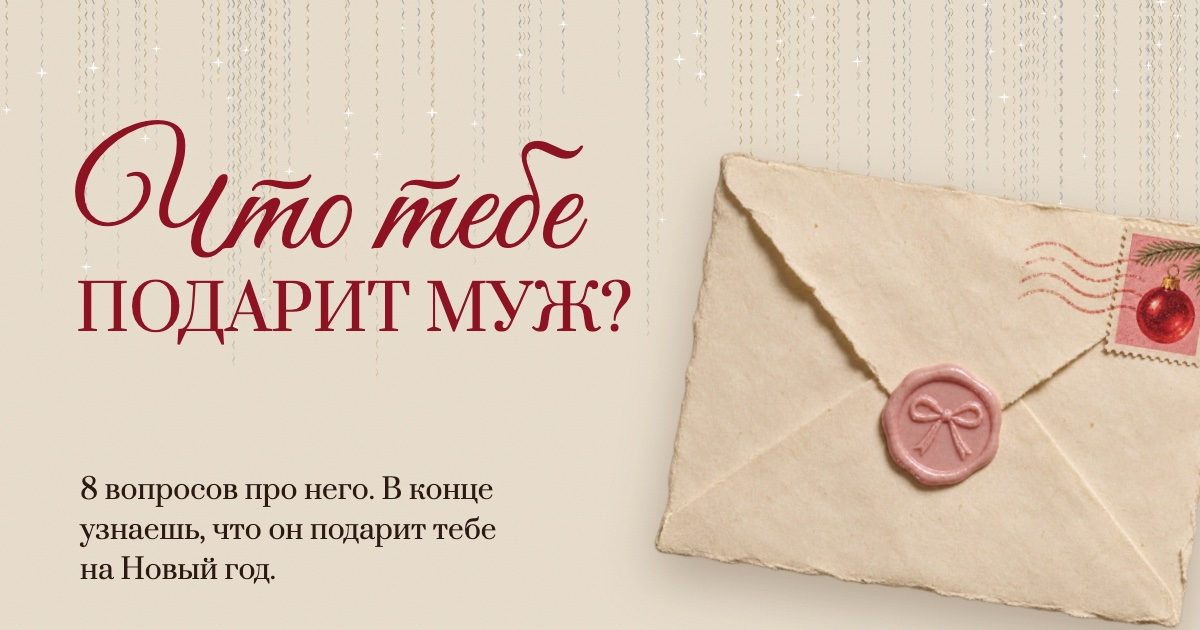
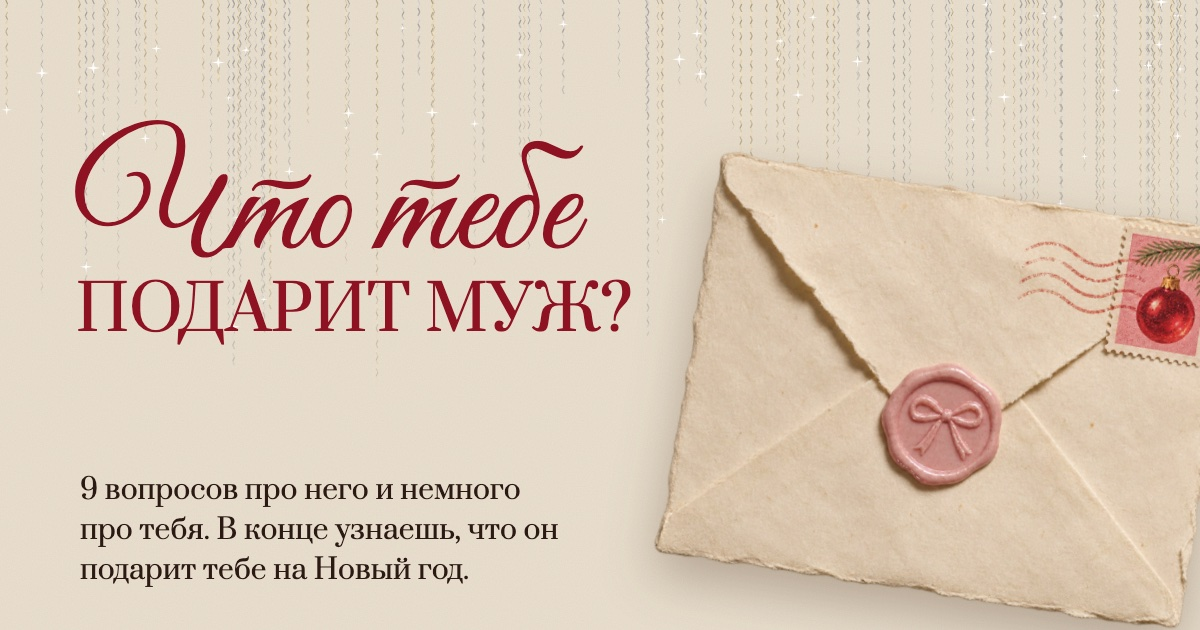
Вопросы и итоги Никиты: 9 вопросов, 11 итогов, «Выбирал» и «Скажет», тексты, которыми хочется поделиться

Changed region(s): [[0.0617, 0.754, 0.4625, 0.9349], [0.0617, 0.754, 0.0925, 0.7841]]

diff --git a/index.html b/index.html
@@ -4,13 +4,13 @@
 <meta charset="utf-8">
 <meta name="viewport" content="width=device-width, initial-scale=1, viewport-fit=cover">
 <title>Что тебе подарит муж?</title>
-<meta name="description" content="8 вопросов про него. В конце узнаешь, что он подарит тебе на Новый год.">
+<meta name="description" content="9 вопросов про него и немного про тебя. В конце узнаешь, что он подарит тебе на Новый год.">
 <meta name="theme-color" content="#EAE0CF">
 <meta name="color-scheme" content="only light">
 <link rel="apple-touch-icon" href="apple-touch-icon.png">
 <meta property="og:type" content="website">
 <meta property="og:title" content="Что тебе подарит муж?">
-<meta property="og:description" content="8 вопросов про него. В конце узнаешь, что он подарит тебе на Новый год.">
+<meta property="og:description" content="9 вопросов про него и немного про тебя. В конце узнаешь, что он подарит тебе на Новый год.">
 <meta property="og:url" content="https://ellitinskaya.github.io/podarok/">
 <meta property="og:image" content="https://ellitinskaya.github.io/podarok/og.jpg">
 <meta property="og:image:width" content="1200">
@@ -119,7 +119,7 @@
   .back { background: none; border: 0; padding: 0 12px 0 0; min-height: 44px; margin: -9px 0; color: var(--accent); }
   .step { margin-left: auto; color: var(--accent); }
   .bar { position: relative; z-index: 2; height: 1px; margin-top: 8px; background: var(--rule); }
-  .bar i { display: block; height: 100%; width: 12.5%; background: var(--accent); }
+  .bar i { display: block; height: 100%; width: 11.1%; background: var(--accent); }
   @media (prefers-reduced-motion: no-preference) { .bar i { transition: width .25s ease; } }
   #quiz .env { width: 72%; right: -16%; top: 52px; transform: rotate(9deg); }
   #quiz .photo { width: 40%; left: -3%; bottom: 7%; transform: rotate(-7deg); }
@@ -154,6 +154,7 @@
 
   /* ---------- итог ---------- */
   .result { position: relative; max-width: 560px; margin: 0 auto; padding: 22px var(--pad) 28px; }
+  @media (max-width: 899px) { .result { overflow-x: clip; } }   /* конверт за листом не вылезает за край телефона: страница не ездит вбок (2026-11-19). clip, а не hidden, — чтобы кнопка «Отправить» осталась прилипшей */
   .res-title { position: relative; z-index: 2; }   /* заголовок поверх выглядывающего конверта */
   .res-title:focus { outline: none; }
   .res-collage { position: relative; display: flow-root; margin-top: 18px; }   /* flow-root: отступ листа не утаскивает весь блок вниз */
@@ -165,6 +166,9 @@
   .wish { font-size: var(--t-wish); line-height: 1.25; margin-bottom: 16px; padding-bottom: 16px; border-bottom: 1.5px dotted rgba(78, 42, 30, .45); }
   .gift { font-size: var(--t-gift); line-height: var(--lh-gift); margin-bottom: 12px; }
   .line { max-width: 30em; }
+  /* «Выбирал» и «Скажет» под строкой итога (версия 6, 2026-11-19) */
+  .extra { display: grid; grid-template-columns: auto 1fr; gap: 6px 14px; align-items: baseline; margin: 14px 0 0; padding-top: 12px; border-top: 1.5px dotted rgba(78, 42, 30, .45); font-size: 14px; line-height: 19px; }
+  .extra dt { margin: 0; } .extra dd { margin: 0; }
   .send-wrap { position: sticky; bottom: 0; z-index: 3; margin: 22px calc(-1 * var(--pad)) 0; padding: 10px var(--pad) calc(10px + env(safe-area-inset-bottom, 0px));
     background: linear-gradient(180deg, var(--bg-0), var(--bg) 14px); }
   .send { display: block; width: 100%; min-height: 56px; border: 0; background: var(--btn); color: var(--on-accent); }
@@ -183,7 +187,7 @@
   .st-env { position: relative; width: min(330px, 82vw); }
   .st-env img { position: relative; z-index: 1; display: block; width: 100%; height: auto; filter: drop-shadow(0 20px 26px rgba(60, 30, 10, .35)); }
   .st-letter { position: absolute; z-index: 0; left: 9%; top: 8%; width: 82%; height: 80%; overflow: hidden; background: var(--note) var(--noise); padding: 14px 14px; color: var(--ink); font-size: 9px; line-height: 12px; }
-  .st-letter .lbl { font-size: 7px; } .st-letter .wish { font-size: 12px; margin-bottom: 7px; padding-bottom: 7px; } .st-letter .gift { font-size: 14px; line-height: 17px; margin: 0; } .st-letter .line { display: none; }
+  .st-letter .lbl { font-size: 7px; } .st-letter .wish { font-size: 12px; margin-bottom: 7px; padding-bottom: 7px; } .st-letter .gift { font-size: 14px; line-height: 17px; margin: 0; } .st-letter .line, .st-letter .extra { display: none; }
   .st-glow { position: absolute; z-index: 2; left: 50%; top: 57%; width: 160px; height: 160px; margin: -80px 0 0 -80px; border-radius: 50%; pointer-events: none; opacity: 0;
     background: radial-gradient(circle, rgba(255, 255, 255, .95) 0, rgba(255, 246, 232, .55) 30%, rgba(255, 240, 220, 0) 70%); }
 
@@ -238,7 +242,7 @@
     <div class="bar" aria-hidden="true"><i id="bar"></i></div>
     <div id="intro">
       <p aria-hidden="true"><span class="s1">Что тебе</span><span class="s2">подарит муж?</span></p>
-      <p class="lead">8&nbsp;вопросов про него. В&nbsp;конце узнаешь, что он подарит тебе на&nbsp;Новый год.</p>
+      <p class="lead">9&nbsp;вопросов про него и&nbsp;немного про&nbsp;тебя. В&nbsp;конце узнаешь, что он подарит тебе на&nbsp;Новый год.</p>
     </div>
     <div class="ask">
       <div class="note"><span class="tape" aria-hidden="true"></span>
@@ -296,61 +300,83 @@
 
 <script>
 const WHO = [['муж','мужу','Муж'],['парень','парню','Парень']];
-/* ---------- Тексты (docs/copy.md, раздел 9, версия 5 от 2026-11-17) ---------- */
+/* ---------- Тексты (docs/copy.md, разделы 15–16, версия 7 от 2026-11-19) ---------- */
 const QUESTIONS = [
   { id:'who',   q:'Кто он тебе?', a:['Муж','Парень'] },
-  { id:'time',  q:'Когда он обычно покупает подарки?', s:[3,2,1,0], a:['За пару недель','За пару дней','31 декабря','Забывает'] },
-  { id:'last',  q:'Что он подарил в прошлый Новый год?', s:[2,1,0,-1], a:['То, что я хотела','Что-то для дома','Деньги','Не помню'] },
-  { id:'hints', q:'Как он понимает намёки?', s:[3,2,1,0], a:['С первого раза','Со второго-третьего','Только если прислать ссылку','Никак'] },
-  { id:'ring',  q:'Он знает твой размер кольца?', s:[2,1,0], a:['Да','Примерно','Нет'] },
-  { id:'kin',   q:'Кто покупает подарки его родным?', s:[2,1,0], a:['Он сам','Вместе','Я'] },
-  { id:'says',  q:'Что он говорит про подарки в декабре?', s:[1,0,-1,-1], a:['Спрашивает, что я хочу','Говорит, что всё под контролем','Предлагает в этом году без подарков','Ничего не говорит'] },
-  { id:'wish',  q:'Что ты хочешь в подарок?', a:['Украшение','Поездку','Духи или косметику','Сюрприз'] },
+  { id:'time',  q:'Где он будет 31 декабря в девять вечера?', s:[3,2,1,0], a:['Дома, подарок давно спрятан','Ждёт курьера, заказал позавчера','Бегает по торговому центру','Заезжает на заправку за цветами'] },
+  { id:'her',   q:'Что ты отвечаешь на «что тебе подарить?»', s:[2,1,0,-1], a:['Говорю прямо и присылаю ссылку','Намекаю с октября','«Сам придумай»','«Ничего не надо»'] },
+  { id:'last',  q:'Где сейчас его прошлогодний подарок?', s:[2,0,-1,-1], a:['Ношу и люблю','Лежит в шкафу с биркой','Передарила маме','А был подарок?'] },
+  { id:'reel',  q:'Ты отправила ему рилс с намёком. Что он сделал?', s:[3,2,1,0], a:['Молча купил','Спросил: «Это намёк?»','Поставил лайк и забыл','Не открыл, там уже сорок непрочитанных'] },
+  { id:'ring',  q:'Спроси его, какой у тебя размер кольца. Что он ответит?', s:[2,1,0], a:['Назовёт без запинки','Скажет: «Ну… средний?»','Удивится, что у колец есть размеры'] },
+  { id:'mom',   q:'Кто покупает подарок его маме?', s:[2,1,0,0], a:['Он сам, ещё и упакует','Выбираем вместе','Я выбираю, он переводит деньги','Я покупаю, а дарит он'] },
+  { id:'says',  q:'Что он скажет ближе к Новому году?', s:[1,0,-1,-1], a:['«Что ты хочешь? Только конкретно»','«Всё под контролем»','«Может, в этом году без подарков?»','«А что, уже декабрь?»'] },
+  { id:'wish',  q:'Что ты хочешь в подарок?', a:['Украшение','Поездку','Духи или косметику','Сюрприз','Чтобы сам догадался'] },
 ];
-const WISH = ['украшение', 'поездку', 'духи или косметику', 'сюрприз'];
+const WISH = ['украшение', 'поездку', 'духи или косметику', 'сюрприз', 'чтобы сам догадался'];
+/* итог: подарок крупно, под ним строка, «Выбирал» и «Скажет» */
 const GIFT = {
-  none:   'Ничего. Вы же договорились без подарков.',
-  gas:    'Цветы и шоколадку с заправки.',
-  self:   'То, что ты купишь себе сама.',
-  cert:   'Сертификат, купленный 31 декабря в 21:40.',
-  money:  'Деньги на карту.',
-  useful: 'Что-то для дома. Скорее всего, сковородку.',
-  list:   'То, что ты пришлёшь ему ссылкой.',
-  ok:     'Хороший подарок. Только не тот, что ты хочешь.',
+  agreed:     'Ничего. Вы же договорились без подарков.',
+  said:       'Ничего. Ты же сама сказала.',
+  gas:        'Цветы и шоколадку с заправки.',
+  cert:       'Сертификат, купленный 31 декабря в 21:40.',
+  self:       'То, что ты купишь себе сама.',
+  money:      'Деньги на карту с комментарием «С НГ».',
+  list:       'То, что ты пришлёшь ему ссылкой.',
+  useful:     'Что-то для дома. Скорее всего, сковородку.',
+  mom:        'Подарок твоей маме. Напрямую.',
+  consultant: 'То, что понравилось консультанту.',
 };
-const GOOD = ['Украшение, которое ты хотела.', 'Поездку, о которой ты говорила.', 'Твои любимые духи.', 'Сюрприз, и он тебе понравится.'];
+const GOOD = ['Украшение, которое ты хотела.', 'Поездку, о которой ты говорила.', 'Твои любимые духи.', 'Сюрприз, и он тебе понравится.', 'Он догадался. Сама в шоке.'];
 const NOTE = {
-  none:   'Он правда думает, что ты согласилась.',
-  good:   'Такое выпадает редко. Береги его.',
-  gas:    'Про Новый год он вспомнит 31 декабря по дороге домой.',
-  self:   'Подарки его родным тоже покупаешь ты.',
-  cert:   'Магазин выберет тот, что ближе к дому.',
-  money:  'Как и в прошлый раз.',
-  useful: 'В прошлый раз было так же.',
-  list:   'Ссылку лучше прислать до 20 декабря.',
-  ok:     'Чтобы угадал, отправь ему эту картинку.',
+  agreed:     'Он правда думает, что ты согласилась.',
+  said:       'Единственное, что он запомнил с первого раза.',
+  gas:        'Про Новый год он вспомнит 31 декабря по дороге домой.',
+  cert:       'Магазин он выберет по одному признаку: ближе к парковке.',
+  self:       'Подарок его маме тоже покупаешь ты.',
+  money:      'Маме ты выбирала сама, себе тоже выберешь.',
+  list:       'Пришли до 20 декабря, иначе доставка не успеет.',
+  useful:     'Ты же сказала: «Сам придумай». Он придумал.',
+  mom:        'Прошлогодний всё равно уехал к ней.',
+  consultant: 'Чек он на всякий случай сохранит.',
+  good:       'Такое выпадает редко. Береги его.',
 };
-/* ---------- Как выбирается подарок (docs/copy.md, 9.4–9.7). Эталон — proverki/pravila-v5.js ---------- */
+/* «Выбирал» — у каждого итога своё число: его пишут в комментариях («у меня 0 минут») */
+const TOOK = { agreed:'0 минут', said:'0 минут', gas:'3 минуты, пока заправлялся', cert:'4 минуты, из них 3 — в очереди', self:'0 минут', money:'1 минуту, искал тебя в контактах',
+  list:'30 секунд: нажал «Купить»', useful:'10 минут в отделе посуды', mom:'5 минут на звонок твоей маме', consultant:'15 минут, из них 14 слушал консультанта', good:'2 недели' };
+const SAY = { agreed:'«Мы же договорились»', said:'«Я же тебя слушаю»', gas:'«Зато от души»', cert:'«Выберешь сама, что нравится»',
+  self:'«Ты же лучше знаешь, что тебе нужно»', money:'«Так практичнее»', list:'«Скинь ссылку, закажу»', useful:'«Ты же говорила, что старая пригорает»',
+  mom:'«Чтобы два раза не возить»', consultant:'«В магазине сказали, что всем нравится»', good:'«Я всё помню»' };
+/* ---------- Как выбирается подарок (docs/copy.md, раздел 15). Эталон — proverki/pravila-v6.js ---------- */
 function buildResult(ans) {
   const sc = i => QUESTIONS[i].s[ans[i]];
   const who = WHO[ans[0]];
-  const T = sc(1), H = ans[2], A = sc(3), R = sc(4), I = sc(5), says = ans[6], wish = ans[7];
-  const score = T + sc(2) + A + R + I + sc(6);           /* от −2 до 13 */
+  const time = ans[1], her = ans[2], last = ans[3], reel = ans[4], ring = ans[5], mom = ans[6], says = ans[7], wish = ans[8];
+  let score = 0; for (let i = 1; i <= 7; i++) score += sc(i);   /* от −3 до 15 */
   let key;
-  if (says === 2 && score <= 6) key = 'none';
-  else if (T === 0) key = 'gas';
+  if (says === 2 && score <= 4) key = 'agreed';                 /* «Может, в этом году без подарков?» */
+  else if (her === 3 && score <= 4) key = 'said';               /* «Ничего не надо» */
+  else if (time === 3 || (says === 3 && score <= 3)) key = 'gas'; /* заправка или «А что, уже декабрь?» */
   else if (score >= 9) key = 'good';
-  else if (I === 0 && score <= 5) key = 'self';
-  else if (T === 1) key = 'cert';
-  else if (H === 2) key = 'money';
-  else if (H === 1) key = 'useful';
-  else if (A <= 1) key = 'list';
-  else key = 'ok';
+  else if (mom === 3 && score <= 5) key = 'self';               /* «Я покупаю, а дарит он» */
+  else if (last === 2) key = 'mom';                             /* «Передарила маме» */
+  else if (time === 2) key = 'cert';                            /* «Бегает по торговому центру» */
+  else if (her === 2) key = 'useful';                           /* «Сам придумай» */
+  else if (mom === 2) key = 'money';                            /* «Я выбираю, он переводит деньги» */
+  else if (reel >= 2) key = 'list';                             /* лайк или не открыл */
+  else key = 'consultant';
   const gift = key === 'good' ? GOOD[wish] : GIFT[key];
   let note = NOTE[key];
-  if (key === 'good' && says === 2) note = 'А «без подарков» он сказал для отвода глаз.';
-  else if (key === 'ok' && wish === 0 && R === 0) note = 'Если это кольцо, то не того размера.';
-  return { key, score, who, wish: WISH[wish], gift, note, button: 'Отправить ' + who[1], good: key === 'good' };
+  if (key === 'good') {
+    if (her === 3) note = 'В «ничего не надо» он не поверил.';
+    else if (says === 2) note = 'А «без подарков» он сказал для отвода глаз.';
+  }
+  else if (wish === 4) note = 'Ты хотела, чтобы сам догадался. Он не догадался.';
+  else if (key === 'list' && reel === 3) note = 'Ссылку он увидит сорок первым сообщением.';
+  else if (key === 'consultant') {
+    if (wish === 0 && ring !== 0) note = 'Если это кольцо, то не того размера.';
+    else if (last === 1) note = 'Бирку можно не срезать.';
+  }
+  return { key, score, who, wish: WISH[wish], gift, note, took: TOOK[key], say: SAY[key], button: 'Отправить ' + who[1], good: key === 'good' };
 }
 function shareText(res) {
   const url = location.href.split('#')[0].split('?')[0];
@@ -362,7 +388,8 @@ const title = (res, me) => 'Что ' + (me ? 'мне' : 'тебе') + ' пода
 const ME = {
   'То, что ты купишь себе сама.': 'То, что я куплю себе сама.',
   'То, что ты пришлёшь ему ссылкой.': 'То, что я пришлю ему ссылкой.',
-  'Хороший подарок. Только не тот, что ты хочешь.': 'Хороший подарок. Только не тот, что я хочу.',
+  'Ничего. Ты же сама сказала.': 'Ничего. Я же сама сказала.',
+  'Подарок твоей маме. Напрямую.': 'Подарок моей маме. Напрямую.',
   'Украшение, которое ты хотела.': 'Украшение, которое я хотела.',
   'Поездку, о которой ты говорила.': 'Поездку, о которой я говорила.',
   'Твои любимые духи.': 'Мои любимые духи.',
@@ -440,7 +467,8 @@ function finish() {
 function letterHTML(res) {
   return '<p class="lbl caps">Ты хочешь</p><p class="wish">' + tipo(res.wish) + '</p>'
     + '<p class="lbl caps">' + res.who[2] + ' подарит</p><h3 class="gift">' + tipo(res.gift) + '</h3>'
-    + '<p class="line">' + tipo(res.note) + '</p>';
+    + '<p class="line">' + tipo(res.note) + '</p>'
+    + '<dl class="extra"><dt class="lbl caps">Выбирал</dt><dd>' + tipo(res.took) + '</dd><dt class="lbl caps">Скажет</dt><dd>' + tipo(res.say) + '</dd></dl>';
 }
 function fillResult() {
   $('resWho').textContent = 'подарит ' + result.who[0];
@@ -596,12 +624,12 @@ function drawImage(res) {
   x.fillText(cap, 84, TOP + 190 + cs + 10);
   const top = TOP + 190 + cs + 90;
   /* низ: куда идти и кто сделал. Всегда на одном месте */
-  const B3 = BOTTOM - 4, B2 = B3 - 56, B1 = B2 - 66;
+  const B3 = BOTTOM - 4, B2 = B3 - 74, B1 = B2 - 66;   /* ник крупнее (версия 6): под адресом больше места */
   const addr = (location.host + location.pathname.replace(/index\.html$/, '')).replace(/\/$/, '');
   x.fillStyle = C.ink; x.font = '400 38px ' + SF; x.fillText('Узнай, что подарит твой:', 90, B1);
   let as = 50; x.font = '400 ' + as + 'px ' + SF; while (x.measureText(addr).width > W - 180 && as > 28) { as -= 2; x.font = '400 ' + as + 'px ' + SF; }
   x.fillStyle = C.accent; x.fillText(addr, 90, B2);
-  x.fillStyle = C.ink; x.font = '400 30px ' + SF; x.fillText('сделала @litinskaaya', 90, B3);
+  x.fillStyle = C.ink; x.font = '400 45px ' + SF; x.fillText('сделала @litinskaaya', 90, B3);   /* 45 вместо 30: в 1,5 раза крупнее (версия 6) */
   /* записка с итогом: если не помещается, уменьшается целиком */
   const L = 90, PW = W - 200, room = (B1 - 110) - top;
   const build = k => {
@@ -611,7 +639,16 @@ function drawImage(res) {
     const wl = wrapLines(x, tipo(res.wish), wishF, TW); rows.push({ kind: 'text', lines: wl, font: wishF, lh: 68 * k, at: h }); h += wl.length * 68 * k + 34 * k;
     rows.push({ kind: 'rule', at: h }); h += 44 * k;
     rows.push({ kind: 'caps', text: res.who[2] + ' подарит', font: capF, at: h + 34 * k }); h += 58 * k;
-    const gl = wrapLines(x, tipo(giftMe(res)), giftF, TW); rows.push({ kind: 'text', lines: gl, font: giftF, lh: 90 * k, at: h }); h += gl.length * 90 * k + P - 10 * k;
+    const gl = wrapLines(x, tipo(giftMe(res)), giftF, TW); rows.push({ kind: 'text', lines: gl, font: giftF, lh: 90 * k, at: h }); h += gl.length * 90 * k + 20 * k;
+    /* «Выбирал» и «Скажет» мелко под подарком (версия 6): подпись слева, текст колонкой справа */
+    rows.push({ kind: 'rule', at: h }); h += 34 * k;
+    const pairF = '400 ' + 38 * k + 'px ' + SF; x.font = capF;
+    const capW = t => [...t.toUpperCase()].reduce((w, ch) => w + x.measureText(ch).width + 6 * k, 0);
+    const col = Math.max(capW('Выбирал'), capW('Скажет')) + 26 * k;
+    [['Выбирал', res.took], ['Скажет', res.say]].forEach(([label, value], j) => {
+      const vl = wrapLines(x, tipo(value), pairF, TW - col); rows.push({ kind: 'pair', label, capF, col, lines: vl, font: pairF, lh: 48 * k, at: h }); h += vl.length * 48 * k + (j ? 0 : 10 * k);
+    });
+    h += P - 14 * k;
     return { rows, h, k, TX, TW };
   };
   let lay = build(1);
@@ -623,6 +660,8 @@ function drawImage(res) {
   lay.rows.forEach(rw => {
     if (rw.kind === 'rule') { x.fillStyle = 'rgba(78,42,30,.45)'; for (let dx = 0; dx < lay.TW; dx += 12) x.fillRect(lay.TX + dx, rw.at, 5, 3); return; }
     if (rw.kind === 'caps') { x.fillStyle = C.accent; x.font = rw.font; spaced(x, rw.text.toUpperCase(), lay.TX, rw.at, 6 * k); return; }
+    if (rw.kind === 'pair') { const y0 = rw.at + rw.lh * .76; x.fillStyle = C.accent; x.font = rw.capF; spaced(x, rw.label.toUpperCase(), lay.TX, y0, 6 * k);
+      x.fillStyle = C.ink; x.font = rw.font; rw.lines.forEach((l, i) => x.fillText(l, lay.TX + rw.col, y0 + rw.lh * i)); return; }
     x.fillStyle = C.ink; x.font = rw.font; rw.lines.forEach((l, i) => x.fillText(l, lay.TX, rw.at + rw.lh * (i + 1) - rw.lh * .24));
   });
   x.restore();
@@ -630,7 +669,7 @@ function drawImage(res) {
   return c;
 }
 const toBlob = c => new Promise(ok => c.toBlob(ok, 'image/png'));
-const plain = res => title(res, true) + '. Я хочу: ' + res.wish + '. ' + res.who[2] + ' подарит: ' + giftMe(res);
+const plain = res => title(res, true) + '. Я хочу: ' + res.wish + '. ' + res.who[2] + ' подарит: ' + giftMe(res) + ' Выбирал: ' + res.took + '. Скажет: ' + res.say + '.';
 /* файл картинки готовим заранее, как только показан итог: тогда «Отправить» открывает системное окно сразу после нажатия */
 function prepareImage() {
   const res = result; shareFile = null;
